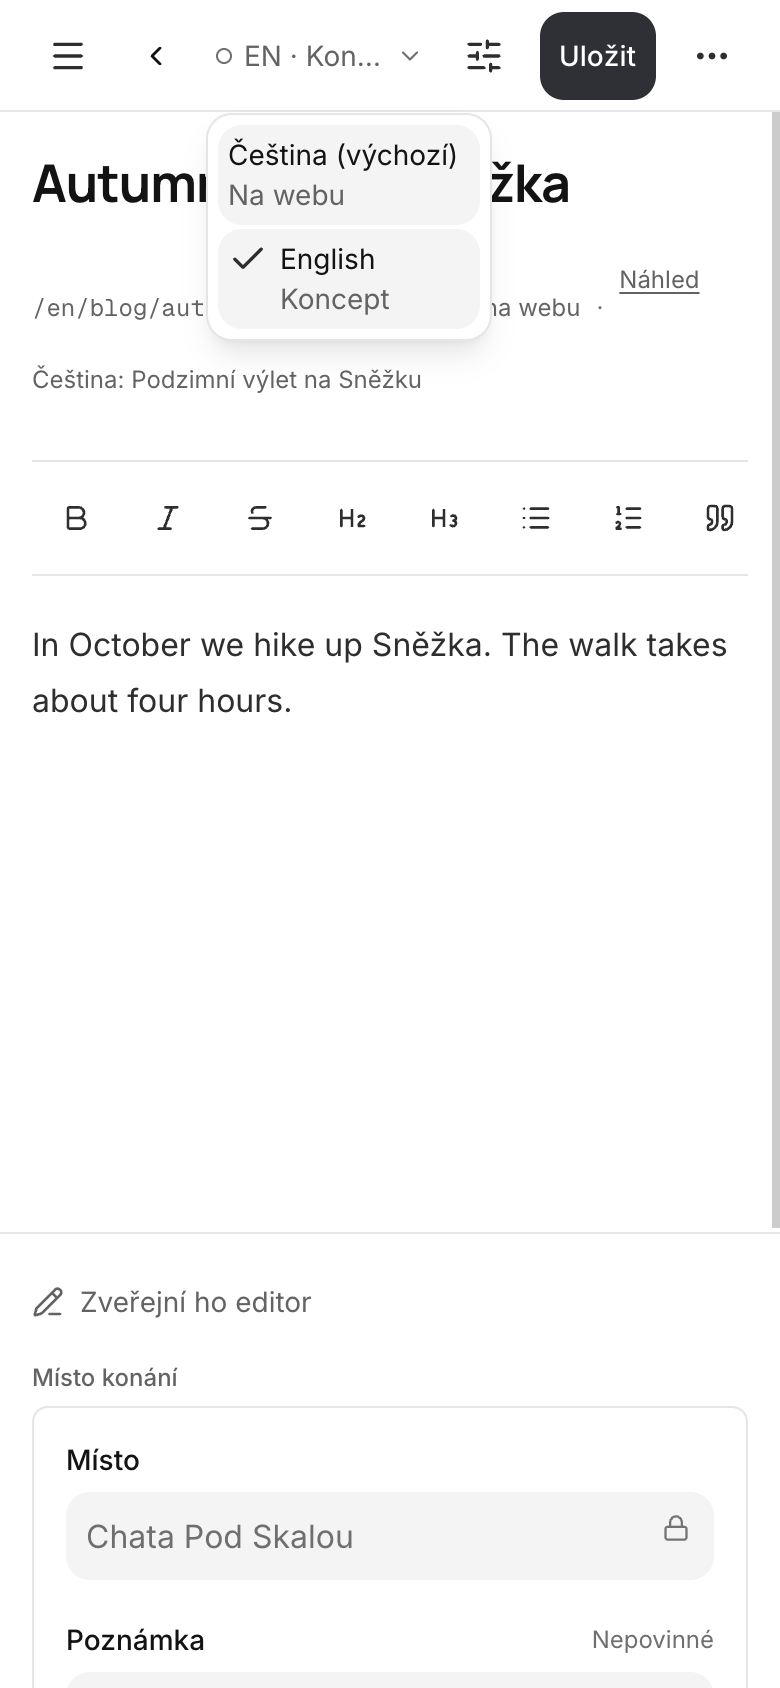
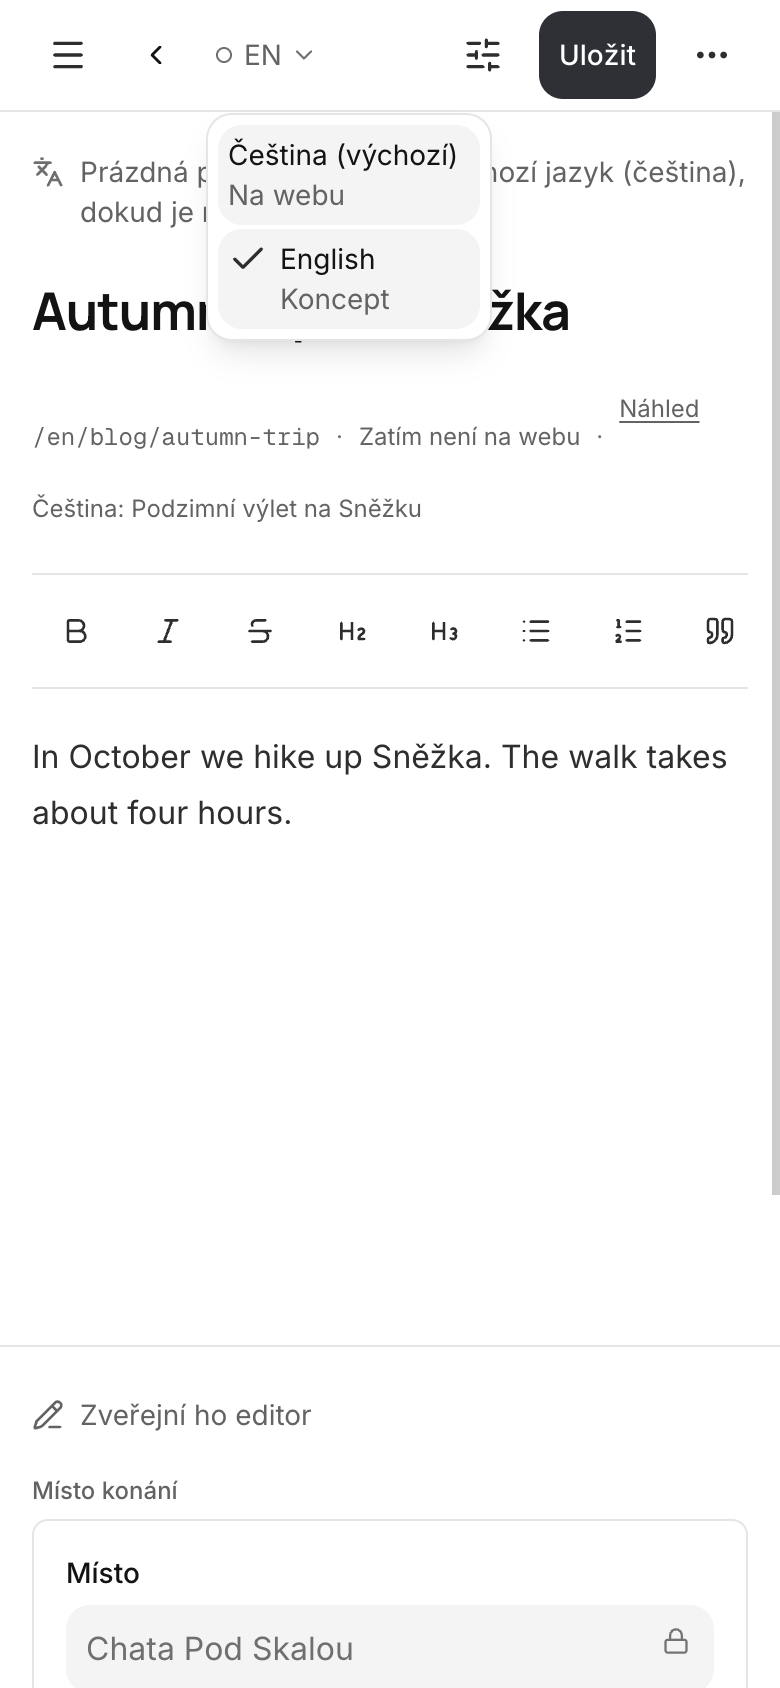
docs: fresh screenshots for the 0.6 polish (needs translating, the language filter, one hint, phones) in cs, en and de

diff --git a/docs/editors/de/uebersetzungen.md b/docs/editors/de/uebersetzungen.md
@@ -129,6 +129,8 @@ Auf der **Übersicht** (der ersten Seite nach der Anmeldung) gibt es die Liste *
 
 Bei jedem Eintrag stehen die Sprache und ihr Status, zum Beispiel **Englisch · Nicht übersetzt**, und die Schaltfläche **Übersetzen**, die direkt diese Sprache öffnet. Oben stehen die Einträge, an denen zuletzt gearbeitet wurde. Die Liste zeigt fünf Einträge; **Alle ansehen** öffnet die ganze Liste der Beiträge (oder Seiten, Schlagwörter …) mit dem Filter **Englisch: Wartet auf Übersetzung**. Die Begrüßung oben sagt es auch in Worten, zum Beispiel „3 Texte warten auf Übersetzung.“
 
+![Die Übersicht einer Übersetzerin: die Liste „Wartet auf Übersetzung“ mit Einträgen wie „Englisch · Nicht übersetzt“ und je einer Schaltfläche zum Übersetzen](../../screenshots/0.6/needs-translating.png)
+
 In der Liste steht nur, was Sie selbst übersetzen können. Wer übersetzt, sieht dort zum Beispiel keine Schlagwörter, die er nur lesen darf, und keine Seiten, die auf der Website sind (bei Seiten werden alle Sprachen gemeinsam veröffentlicht, und ändern darf sie nur, wer veröffentlicht). Wenn alles übersetzt ist, fehlt die Liste auf der Übersicht.
 
 Wer veröffentlichen darf (**Redakteur**, **Administrator**), sieht in derselben Liste auch Übersetzungen, die jemand begonnen hat. Bei einer solchen Übersetzung steht die Schaltfläche **Prüfen**: Öffnen Sie sie, sehen Sie sie in der **Vorschau** an und veröffentlichen Sie sie (**Veröffentlichen…**).
@@ -136,6 +138,8 @@ Wer veröffentlichen darf (**Redakteur**, **Administrator**), sieht in derselben
 ### Nach Sprache filtern
 
 In einer Liste von Einträgen gibt es unter **Filter** für jede Sprache außer der Standardsprache eine Auswahl (zum Beispiel **Englisch**):
+
+![Die Beitragsliste mit dem Filter „Englisch: Wartet auf Übersetzung“; nicht übersetzte Sprachen haben in der Spalte Sprachen einen gestrichelten Ring](../../screenshots/0.6/list-language-filter.png)
 
 | Auswahl | Was sie zeigt |
 |---|---|

diff --git a/docs/editors/cs/preklady.md b/docs/editors/cs/preklady.md
@@ -129,6 +129,8 @@ Na **Přehledu** (první stránka po přihlášení) je seznam **Čeká na přek
 
 U každé položky je jazyk a jeho stav, třeba **Angličtina · Nepřeloženo**, a tlačítko **Přeložit**, které otevře rovnou ten jazyk. Nahoře jsou položky, na kterých se pracovalo naposledy. Seznam ukazuje pět položek; **Zobrazit vše** otevře celý seznam článků (nebo stránek, štítků…) s filtrem **Angličtina: Čeká na překlad**. Pozdrav nahoře to řekne i slovy, třeba „3 texty čekají na překlad.“
 
+![Přehled překladatelky: seznam Čeká na překlad s položkami jako „Angličtina · Nepřeloženo“ a tlačítkem Přeložit u každé](../../screenshots/0.6/needs-translating.png)
+
 V seznamu je jen to, co můžete přeložit vy. Překladatel tu nevidí třeba štítky, které smí jen číst, ani stránky, které jsou na webu (u stránek se všechny jazyky zveřejňují společně, a ty smí měnit jen ten, kdo zveřejňuje). Když je všechno přeložené, seznam na Přehledu není.
 
 Kdo smí zveřejňovat (**Editor**, **Administrátor**), vidí v tom samém seznamu i překlady, které někdo rozepsal. U takového překladu je tlačítko **Zkontrolovat**: otevřete ho, prohlédněte si ho v **Náhledu** a zveřejněte (**Zveřejnit…**).
@@ -136,6 +138,8 @@ Kdo smí zveřejňovat (**Editor**, **Administrátor**), vidí v tom samém sezn
 ### Filtr podle jazyka
 
 V seznamu položek najdete pod **Filtr** pro každý jazyk kromě výchozího jednu volbu (třeba **Angličtina**):
+
+![Seznam článků s filtrem „Angličtina: Čeká na překlad“; nepřeložené jazyky mají ve sloupci Jazyky čárkovaný kroužek](../../screenshots/0.6/list-language-filter.png)
 
 | Volba | Co ukáže |
 |---|---|

diff --git a/docs/editors/en/translations.md b/docs/editors/en/translations.md
@@ -129,6 +129,8 @@ The **Home** page (the first page after you sign in) has a list called **Needs t
 
 Each item shows the language and its status, for example **English · Not translated**, and a **Translate** button that opens that language straight away. The items worked on most recently come first. The list shows five items; **View all** opens the whole list of posts (or pages, tags…) with the filter **English: Needs translating**. The greeting at the top says it in words too, for example "3 texts need translating."
 
+![A translator's Home: the Needs translating list with items like "English · Not translated" and a Translate button on each](../../screenshots/0.6/needs-translating.png)
+
 The list holds only what you can translate. A translator doesn't see tags, for example, if they may only read them, nor pages that are on the website (all of a page's languages are published together, and only someone who publishes may change those). When everything is translated, the list isn't on the Home page.
 
 People who can publish (**Editor**, **Administrator**) also see translations someone has started in the same list. Such a translation has a **Review** button: open it, look at it in **Preview** and publish it (**Publish…**).
@@ -136,6 +138,8 @@ People who can publish (**Editor**, **Administrator**) also see translations som
 ### Filtering by language
 
 In a list of items, **Filter** has one choice for each language other than the default one (for example **English**):
+
+![The posts list filtered by "English: Needs translating"; languages nobody translated have a dashed ring in the Languages column](../../screenshots/0.6/list-language-filter.png)
 
 | Choice | What it shows |
 |---|---|
